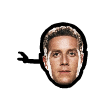
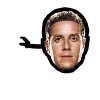
new cosmetics

diff --git a/src/common/cosmetics.ts b/src/common/cosmetics.ts
@@ -117,7 +117,27 @@ import hat90_11 from '../static/hats/90-11.png'; // @ts-ignore
 import hat91 from '../static/hats/91.png'; // @ts-ignore
 import hat92 from '../static/hats/92.png'; // @ts-ignore
 import hat93 from '../static/hats/93.png';// @ts-ignore
-import hat94 from '../static/hats/94.png';
+import hat94 from '../static/hats/94.png';// @ts-ignore
+import hat95 from '../static/hats/95.png'; // @ts-ignore
+import hat96 from '../static/hats/96.png'; // @ts-ignore
+import hat97 from '../static/hats/97.png'; // @ts-ignore
+import hat98 from '../static/hats/98.png'; // @ts-ignore
+import hat99 from '../static/hats/99.png'; // @ts-ignore
+import hat100 from '../static/hats/100.png'; // @ts-ignore
+import hat101 from '../static/hats/101.png'; // @ts-ignore
+import hat102 from '../static/hats/102.png'; // @ts-ignore
+import hat103 from '../static/hats/103.png'; // @ts-ignore
+import hat104 from '../static/hats/104.png'; // @ts-ignore
+import hat105 from '../static/hats/105.png'; // @ts-ignore
+import hat106 from '../static/hats/106.png'; // @ts-ignore
+import hat107 from '../static/hats/107.png'; // @ts-ignore
+import hat108 from '../static/hats/108.png'; // @ts-ignore
+import hat109 from '../static/hats/109.png'; // @ts-ignore
+import hat110 from '../static/hats/110.png'; // @ts-ignore
+import hat111 from '../static/hats/111.png'; // @ts-ignore
+import hat112 from '../static/hats/112.png'; // @ts-ignore
+import hat113 from '../static/hats/113.png'; // @ts-ignore
+import hat114 from '../static/hats/114.png'; // @ts-ignore
 
 // @ts-ignore
 import skin1 from '../static/skins/1.png'; // @ts-ignore
@@ -134,7 +154,10 @@ import skin11 from '../static/skins/11.png'; // @ts-ignore
 import skin12 from '../static/skins/12.png'; // @ts-ignore
 import skin13 from '../static/skins/13.png'; // @ts-ignore
 import skin14 from '../static/skins/14.png'; // @ts-ignore
-import skin15 from '../static/skins/15.png';
+import skin15 from '../static/skins/15.png';// @ts-ignore
+import skin16 from '../static/skins/16.png'; // @ts-ignore
+import skin17 from '../static/skins/17.png'; // @ts-ignore
+import skin18 from '../static/skins/18.png';// @ts-ignore
 
 // @ts-ignore
 import redAlive from '../static/players/red-alive.png'; // @ts-ignore
@@ -216,6 +239,9 @@ export const skins = [
 	skin13,
 	skin14,
 	skin15,
+	skin16,
+	skin17,
+	skin18,
 ];
 
 export const hatOffsets: { [key in number]: string | undefined } = {
@@ -225,9 +251,11 @@ export const hatOffsets: { [key in number]: string | undefined } = {
 	35: '-50%',
 	77: '-50%',
 	90: '-50%',
+	103: '-50%',
 };
 
-export const backLayerHats = new Set([39, 4, 6, 15, 29, 42, 75, 85]);
+export const backLayerHats = new Set([39, 4, 6, 15, 29, 42, 75, 85, 102, 105, 106, 104, 103]);
+const coloredHatsIds = new Set([77, 90]);
 
 export const coloredHats: { [key in string]: string | undefined } = {
 	77_0: hat77_0,
@@ -258,7 +286,7 @@ export const coloredHats: { [key in string]: string | undefined } = {
 };
 
 export const hats = [
-	hat1,
+	undefined,
 	hat1,
 	hat2,
 	hat3,
@@ -353,4 +381,24 @@ export const hats = [
 	hat92,
 	hat93,
 	hat94,
+	hat95,
+	hat96,
+	hat97,
+	hat98,
+	hat99,
+	hat100,
+	hat101,
+	hat102,
+	hat103,
+	hat104,
+	hat105,
+	hat106,
+	hat107,
+	hat108,
+	hat109,
+	hat110,
+	hat111,
+	hat112,
+	hat113,
+	hat114,
 ];

diff --git a/src/Avatar.tsx b/src/Avatar.tsx
@@ -9,7 +9,6 @@ import {
 } from "./common/cosmetics";
 import makeStyles from "@material-ui/core/styles/makeStyles";
 
-
 // import Tooltip from '@material-ui/core/Tooltip';
 import { overlayPlayer } from "./common/AmongUsState";
 
@@ -77,7 +76,6 @@ const Avatar: React.FC<AvatarProps> = function ({
   if (!image) image = players[status][0];
   const classes = useStyles();
   let icon;
-
 
   return (
     <>
@@ -194,7 +192,12 @@ function Canvas({
           }}
         >
           <img src={src} ref={image} className={classes.base} />
-          <img src={skins[skin]} ref={skinImg} className={classes.skin} />
+          <img
+            src={skins[skin]}
+            ref={skinImg}
+            style={{ top: skin === 17 ? "0%" : undefined }}
+            className={classes.skin}
+          />
 
           {overflow && (
             <img
